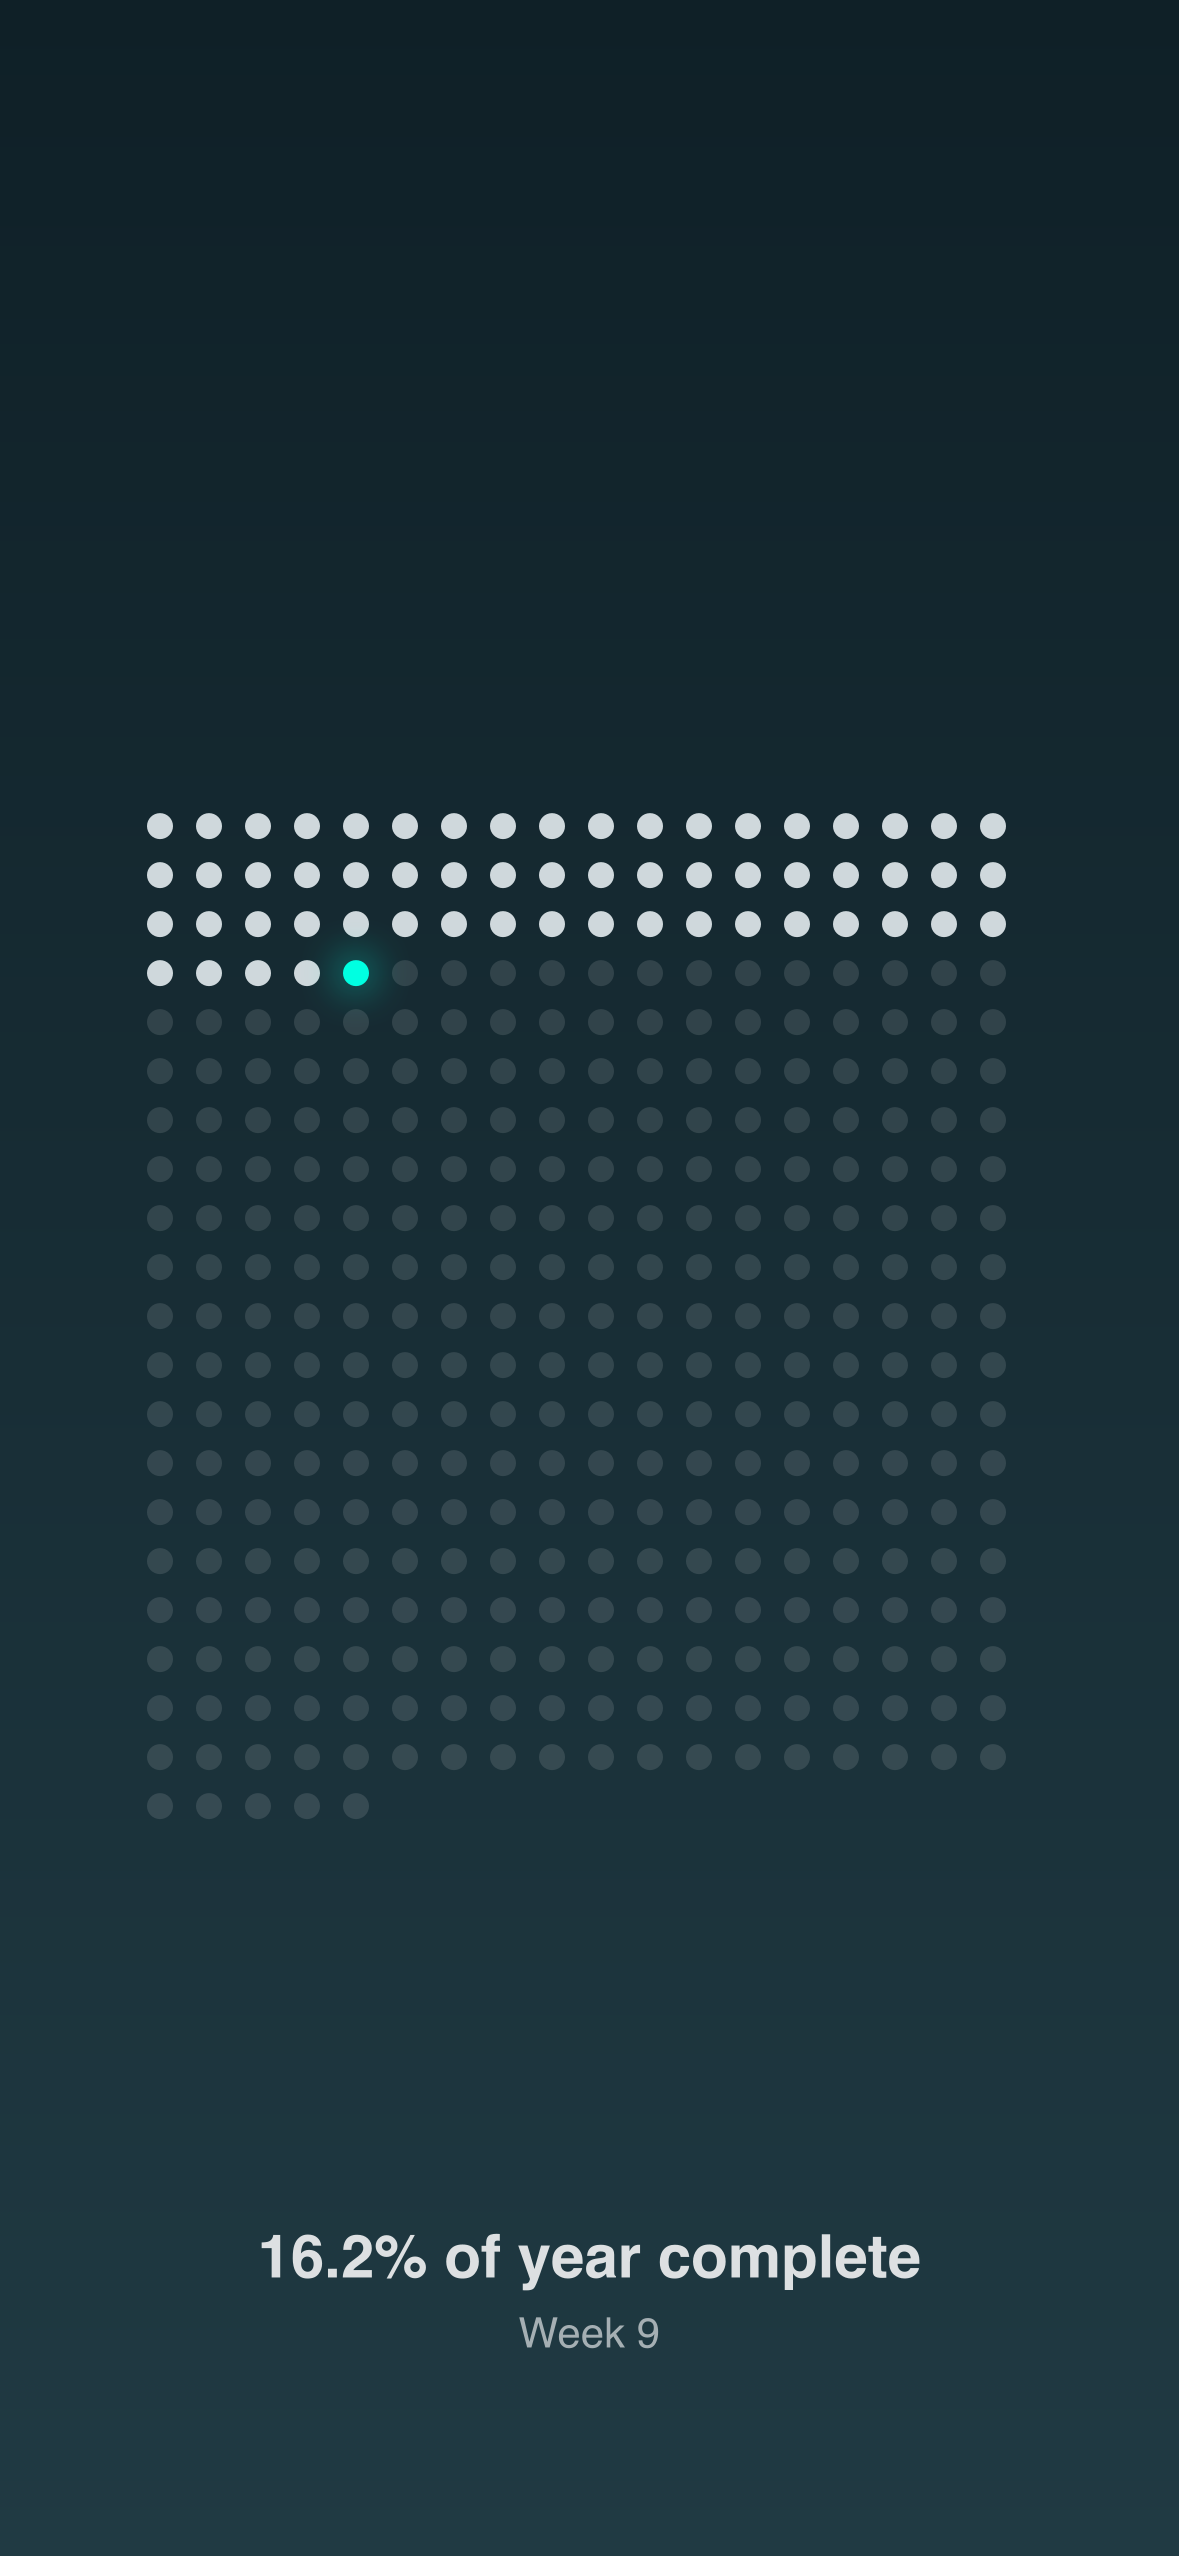
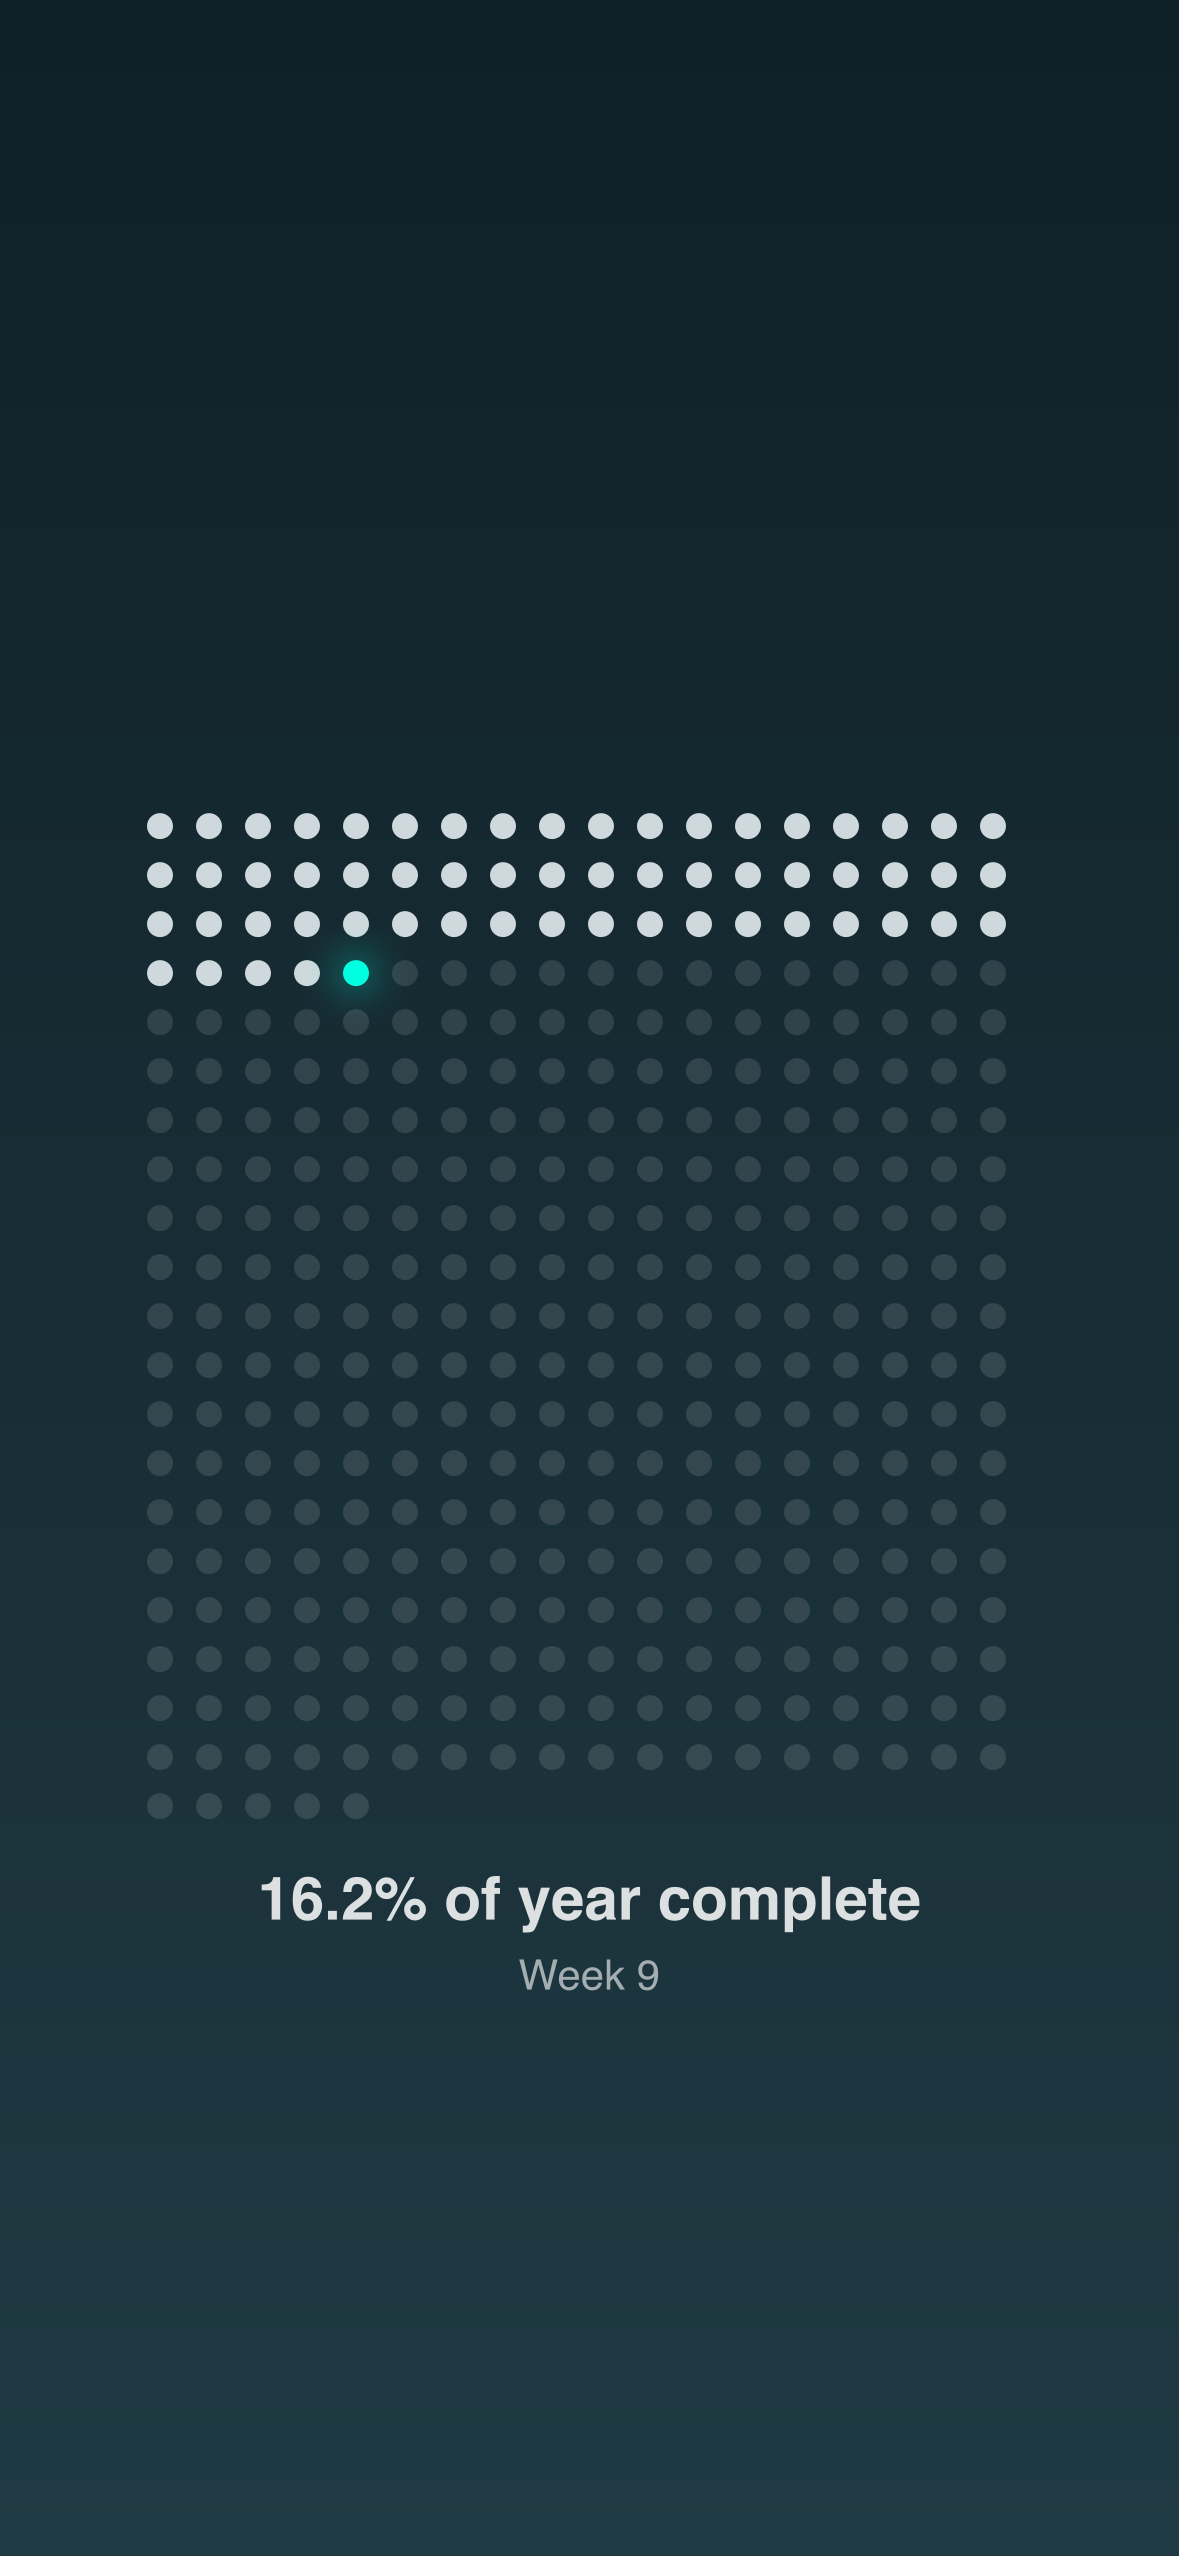
changes

diff --git a/generate.js b/generate.js
@@ -75,7 +75,7 @@ currentY = topSafeArea + (availableHeight - gridHeight) / 2;
 // ----------------------
 // Bottom Center Stats
 // ----------------------
-const bottomCenterY = height - (bottomSafeArea / 1.4);
+const bottomCenterY = height - (bottomSafeArea / 1.2);
 
 ctx.textAlign = "center";
 
